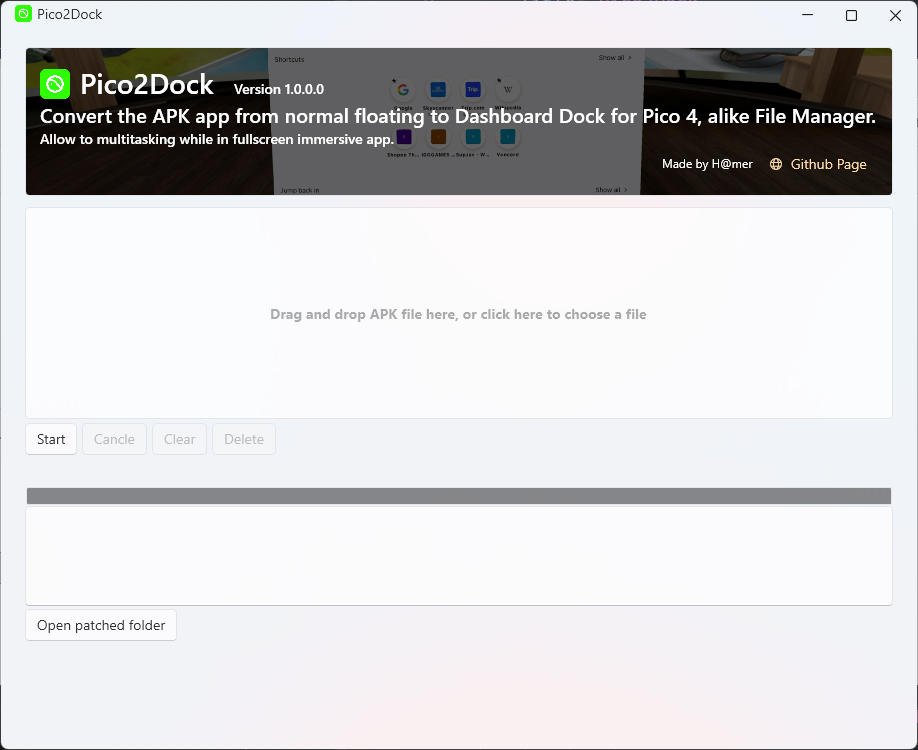
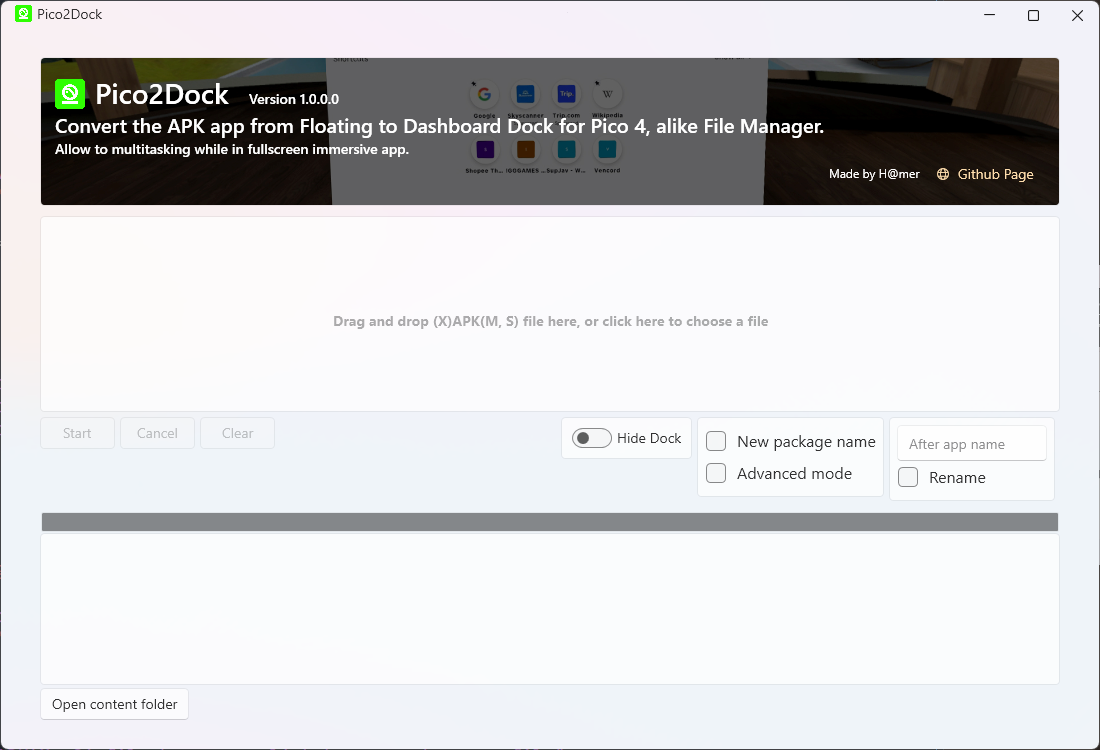
changed Desktop_Pico2Dock.png

diff --git a/Pico2Dock/MainWindow.xaml b/Pico2Dock/MainWindow.xaml
@@ -136,7 +136,7 @@
                             Background="Transparent"
                             BorderBrush="{x:Null}"
                             Click="DropBox_Click"
-                            Content="Drag and drop APK file here, or click here to choose a file"
+                            Content="Drag and drop (X)APK(M, S) file here, or click here to choose a file"
                             Cursor="Hand"
                             DragLeave="DropBox_DragLeave"
                             DragOver="DropBox_DragOver"
